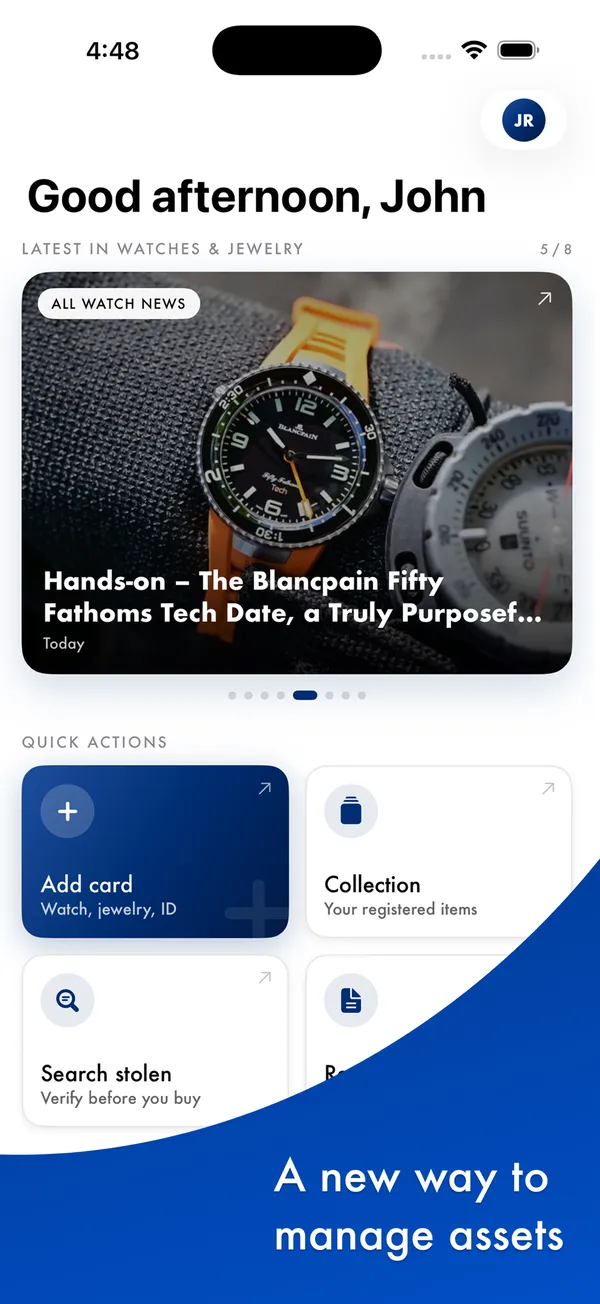
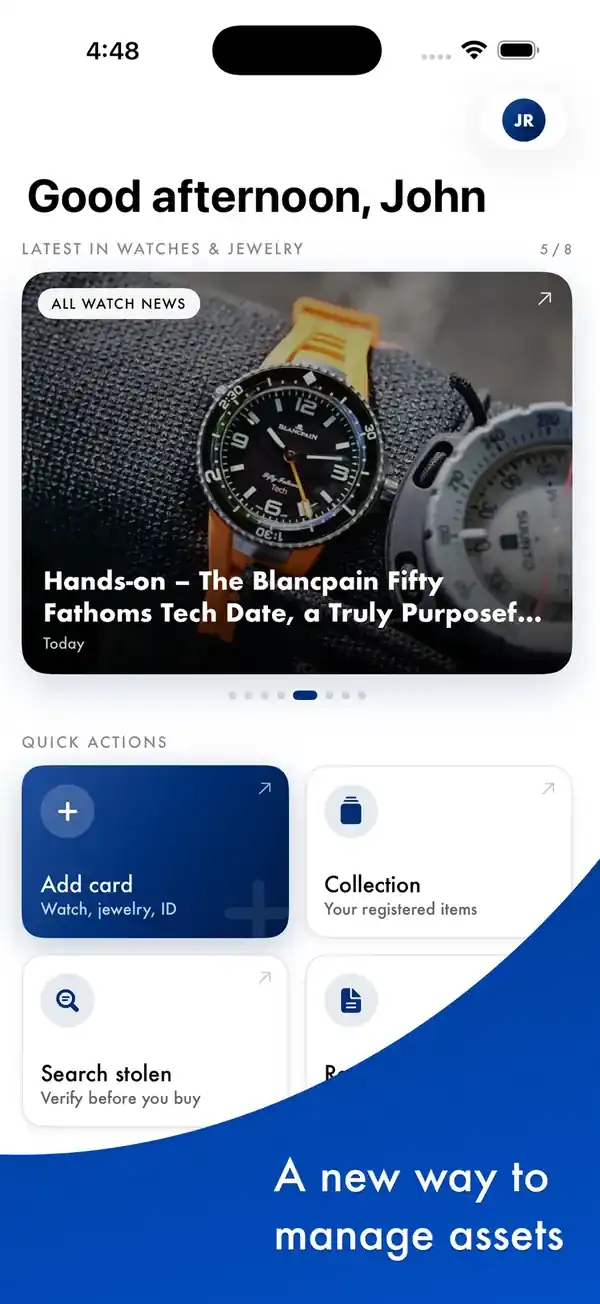
perf: lighter first-slide images on phones; slides drop a disallowed role
Claude-Session: https://claude.ai/code/session_01Bbe6pam2qewCRzNRjQgWub

Changed region(s): [[0.15, 0.6748, 0.21, 0.7055], [0.09, 0.6748, 0.12, 0.7055]]

diff --git a/src/lib/components/Carousel.svelte b/src/lib/components/Carousel.svelte
@@ -18,7 +18,7 @@
 	<!-- svelte-ignore a11y_no_noninteractive_tabindex — scroll containers must be focusable so keyboard users can scroll them -->
 	<div class="carousel-track" data-track role="group" tabindex="0" aria-label="{label} — use arrow keys to browse">
 		{#each slides as slide, i}
-			<figure class="slide" data-slide role="group" aria-roledescription="slide" aria-label="{i + 1} of {slides.length}">
+			<figure class="slide" data-slide aria-roledescription="slide" aria-label="{i + 1} of {slides.length}">
 				{#if slide.kind === 'cta'}
 					<a class="frame frame-cta" href={slide.href}>
 						<span class="font-mono text-xs tracking-[0.3em] text-signal uppercase">Live demo</span>

diff --git a/tests/e2e/carousel.spec.ts b/tests/e2e/carousel.spec.ts
@@ -148,3 +148,12 @@ test('an arrow press that cannot move leaves no stale target behind', async ({ p
 	await c.locator('[data-prev]').click();
 	await expect(c.locator('[data-counter]')).toHaveText('FIG. 03 / 04');
 });
+
+test('slides are named figures, not figures forced into a disallowed role', async ({ page }) => {
+	await page.goto('/work/myne');
+	const slide = page.locator('[data-slide]').first();
+	expect(await slide.evaluate((s) => s.tagName)).toBe('FIGURE');
+	await expect(slide).not.toHaveAttribute('role', /.*/);
+	await expect(slide).toHaveAttribute('aria-roledescription', 'slide');
+	await expect(slide).toHaveAttribute('aria-label', '1 of 5');
+});

diff --git a/tests/unit/media.test.ts b/tests/unit/media.test.ts
@@ -40,3 +40,15 @@ describe('share cards', () => {
 		});
 	}
 });
+
+describe('first slide (the LCP on a phone)', () => {
+	for (const p of projects) {
+		const s = p.slides[0];
+		if (s.kind === 'cta') continue;
+		// the candidates a phone can pick: anything up to 720 px wide (the 1440 px desktop file is never chosen there)
+		const files = s.kind === 'image' ? [s.src, s.src.replace(/\.webp$/, '-sm.webp')].filter((f) => Number(imageDims(file(f)).split(' ')[0]) <= 720) : [s.poster];
+		it(`${p.slug}: ${files.join(', ')} each ≤ 40 KB`, () => {
+			for (const f of files) expect(statSync(file(f)).size, f).toBeLessThanOrEqual(40 * 1024);
+		});
+	}
+});
